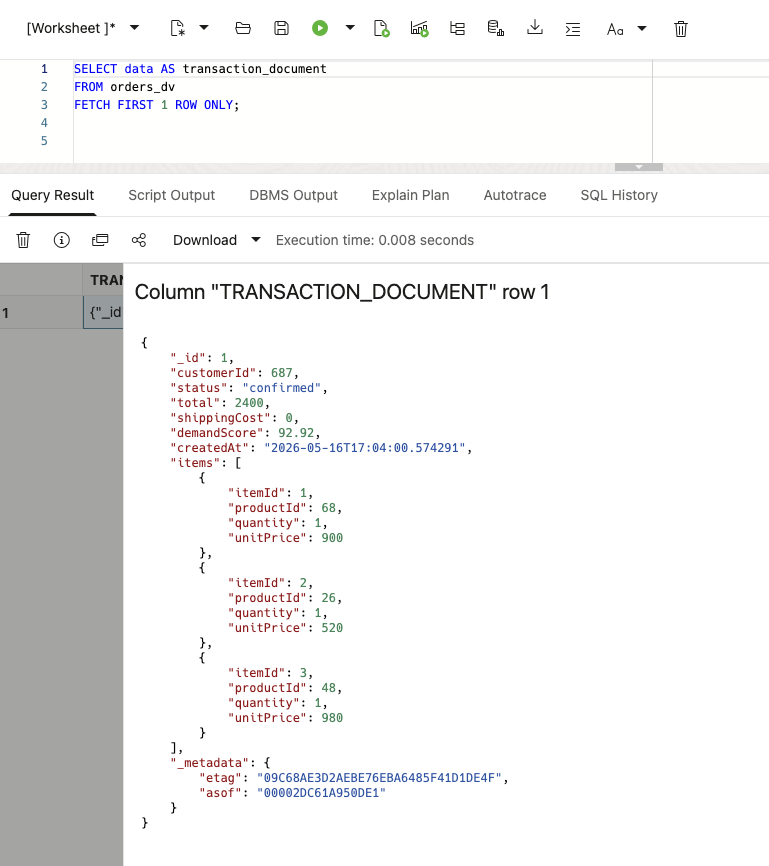
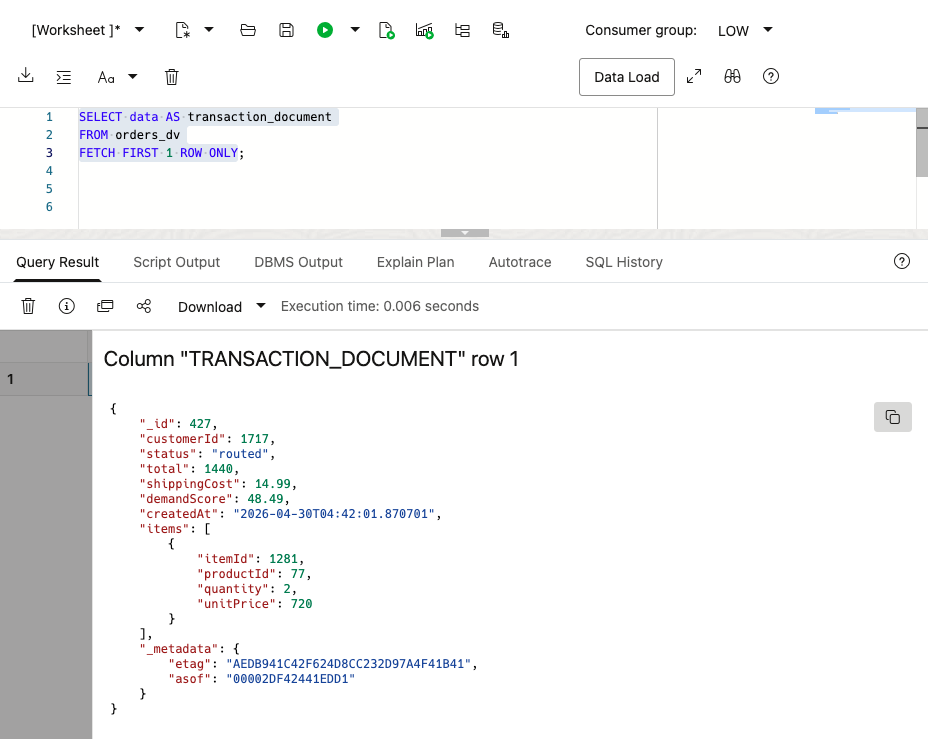
New Finance V2 Updates
Refinement of text and some images

diff --git a/livestack-workshop-finance-v2/introduction/introduction.md b/livestack-workshop-finance-v2/introduction/introduction.md
@@ -17,7 +17,7 @@ The requests look different, but they share one problem. The data is already in 
 
 Jessica's job is to help each team meet its requirement without creating a new data copy or a separate security model for every feature. She uses Oracle AI Database as the shared foundation: relational tables remain the source for finance records, while JSON, vectors, graphs, spatial data, machine learning, and AI services work with those same records.
 
-This workshop follows Jessica and her colleagues as they solve these problems. Each lab focuses on one business requirement, but the database remains the common thread. You will see how the teams use different data types and database capabilities together, and how Jessica keeps access, SQL, and results visible.
+This workshop follows Jessica and her colleagues as they solve these problems and help the bank innovate for customers. Each lab focuses on one business requirement, but the database remains the common thread. You will see how the teams use different data types and database capabilities together, and how Jessica keeps access, SQL, and results visible.
 
 ### What the team builds
 
@@ -32,7 +32,14 @@ This workshop follows Jessica and her colleagues as they solve these problems. E
 | Nina, risk analyst            | Ask finance questions without writing every query from scratch. | Select AI generates SQL that Nina can inspect, run, and refine. Select AI Agent adds a restricted SQL tool and records the agent activity. |
 
 
-The point is not to use every capability in every query. The point is that Jessica does not have to move the data into a separate database whenever a requirement changes. The same finance records can support an application payload, a vector search, a graph investigation, a spatial calculation, a model score, or a natural-language question.
+The point is not to use every capability in every query. The point is that Jessica does not have to move the data into a separate database whenever a requirement changes. The same finance records can support:
+
+- An application payload.
+- A vector search.
+- A graph investigation.
+- A spatial calculation.
+- A model score.
+- A natural-language question.
 
 <details>
 <summary><strong>Learn more: What does "converged database" mean?</strong></summary>
@@ -57,5 +64,5 @@ Estimated Workshop Time: **90 minutes**
 ## Acknowledgements
 
 * **Author** - Kevin Lazarz
-* **Contributor** - Eugenio Galiano
-* **Last Updated By/Date** - Oracle Database Product Management, August 2026
+* **Contributor** - Eugenio Galiano, Pat Shepherd
+* **Last Updated By/Date** - Oracle Database Product Management, September 2026

diff --git a/livestack-workshop-finance-v2/transaction-case-duality/transaction-case-duality.md b/livestack-workshop-finance-v2/transaction-case-duality/transaction-case-duality.md
@@ -4,7 +4,7 @@
 
 Thomas Brune is an application developer at Seer Bank. He and his team are building a new web and mobile application for customers. The team wants a faster customer experience, with fewer round trips and payloads that match the screens and services they are building.
 
-The application requirements are document-shaped. A customer view may contain account details, transaction status, line items, and optional app-specific attributes. JSON gives Thomas the flexibility to evolve that shape as the product changes. The data already lives in Oracle AI Database, so his question is how to use JSON without giving up relational keys, SQL, transactions, and database controls.
+Thomas needs transaction data as a JSON payload that a web or mobile application can consume directly. One payload can group account details, transaction status, line items, and optional app-specific attributes. JSON lets him evolve that payload as the product changes. The data already lives in Oracle AI Database, so his question is how to use JSON without giving up relational keys, SQL, transactions, and database controls.
 
 Thomas asks Jessica, the DBA, to walk through three ways to work with JSON in Oracle AI Database. They start with a JSON value in a relational table, then a collection of JSON documents, and finally a JSON Relational Duality View over existing relational rows. The goal is to choose the right approach for each application feature without creating a second copy of customer data.
 
@@ -194,7 +194,7 @@ Thomas now tests the document shape his application can consume directly.
 
     **Expected output:**
 
-    ![JSON](images/jsondv-result.png)
+    ![SQL Worksheet showing the transaction document returned by the duality view](images/jsondv-result.png " ")
 
 2. Expand the document in SQL Worksheet.
     The query reads the duality view as a document source. Oracle constructs the JSON shape from relational data, so the application gets a transaction payload without a second copy of the transaction record.

diff --git a/livestack-workshop-finance-v2/risk-operations-dashboard/risk-operations-dashboard.md b/livestack-workshop-finance-v2/risk-operations-dashboard/risk-operations-dashboard.md
@@ -39,7 +39,7 @@ Persona focus: You are Jessica Chan, the DBA. Your job is to build one governed 
 
 ## Task 1: Run a converged risk investigation
 
-The dashboard is a starting point, not the whole decision. Run the query below to produce a compact investigation view for high-criticality products.
+The dashboard is a starting point for the decision, not the decision itself. Run the query below to produce a compact investigation view for high-criticality products.
 
 The query intentionally crosses four data models:
 
@@ -181,7 +181,9 @@ The query intentionally crosses four data models:
 
 3. Review the result as the product-level data behind Jessica's dashboard. Each row combines risk, semantic match, transaction activity, and service location. This gives the dashboard a ranked product table and the details a business user needs when deciding what to review.
 
-    Your values may differ after the demo data is refreshed. Check that the result still combines all four data types in one row.
+    ![SQL Worksheet showing the ranked product result behind Jessica's dashboard](images/product-level-dashboard.png " ")
+
+    Your numbers may be different if the demo data has changed. Each row should include all four types of data.
 
 Use the first row to explain the business takeaway: the risk and transaction values show why the product needs attention, the semantic match explains why it fits the question, and the service location shows where follow-up could begin. Jessica now has the query behind the dashboard's ranked product table and detail view, combining relational risk data, vector search, JSON transaction data, and spatial distance in one result that a business user can inspect.
 

diff --git a/livestack-workshop-finance-v2/risk-signal-vector-search/risk-signal-vector-search.md b/livestack-workshop-finance-v2/risk-signal-vector-search/risk-signal-vector-search.md
@@ -17,6 +17,8 @@ In this lab, you review Gilly's implementation from the embedding model to the f
 
 > - An **embedding** is a numerical profile of what text means. In this lab, product data is embedded so similar finance ideas sit near each other mathematically, even when the wording is different.
 >
+> - An **ONNX embedding model** is a portable machine-learning model saved in the Open Neural Network Exchange (ONNX) format. It turns text into a vector of numbers that captures meaning. Oracle AI Database can load and run this model inside the database, close to the product rows.
+>
 > - A **vector** is the stored numerical form of an embedding. Oracle Database can store vectors beside the finance rows they describe, so the search stays connected to product names, exposure values, notice counts, and other business columns.
 >
 > - **Vector distance** measures how close two vectors are. A smaller distance means the meanings are more similar; a larger distance means they are farther apart. In this lab, distance helps rank which products or risk notices best match a business user's question.
@@ -274,5 +276,5 @@ Gilly has built the search behind the application and connected it to a business
 ## Acknowledgements
 
 * **Author** - Kevin Lazarz
-* **Contributor** - Eugenio Galiano
-* **Last Updated By/Date** - Oracle Database Product Management, August 2026
+* **Contributor** - Eugenio Galiano, Pat Shepherd
+* **Last Updated By/Date** - Oracle Database Product Management, September 2026

diff --git a/livestack-workshop-finance-v2/getting-started/getting-started.md b/livestack-workshop-finance-v2/getting-started/getting-started.md
@@ -96,6 +96,8 @@ Open SQL Worksheet as the workshop user before running the finance queries. SQL 
     </copy>
     ```
 
+    ![SQL Worksheet showing the LLUSER connection check results](images/sql-worksheet-connection-check.png " ")
+
     **Expected output: Connected SQL Worksheet Session**
 
     | User | Schema | Checked At |
